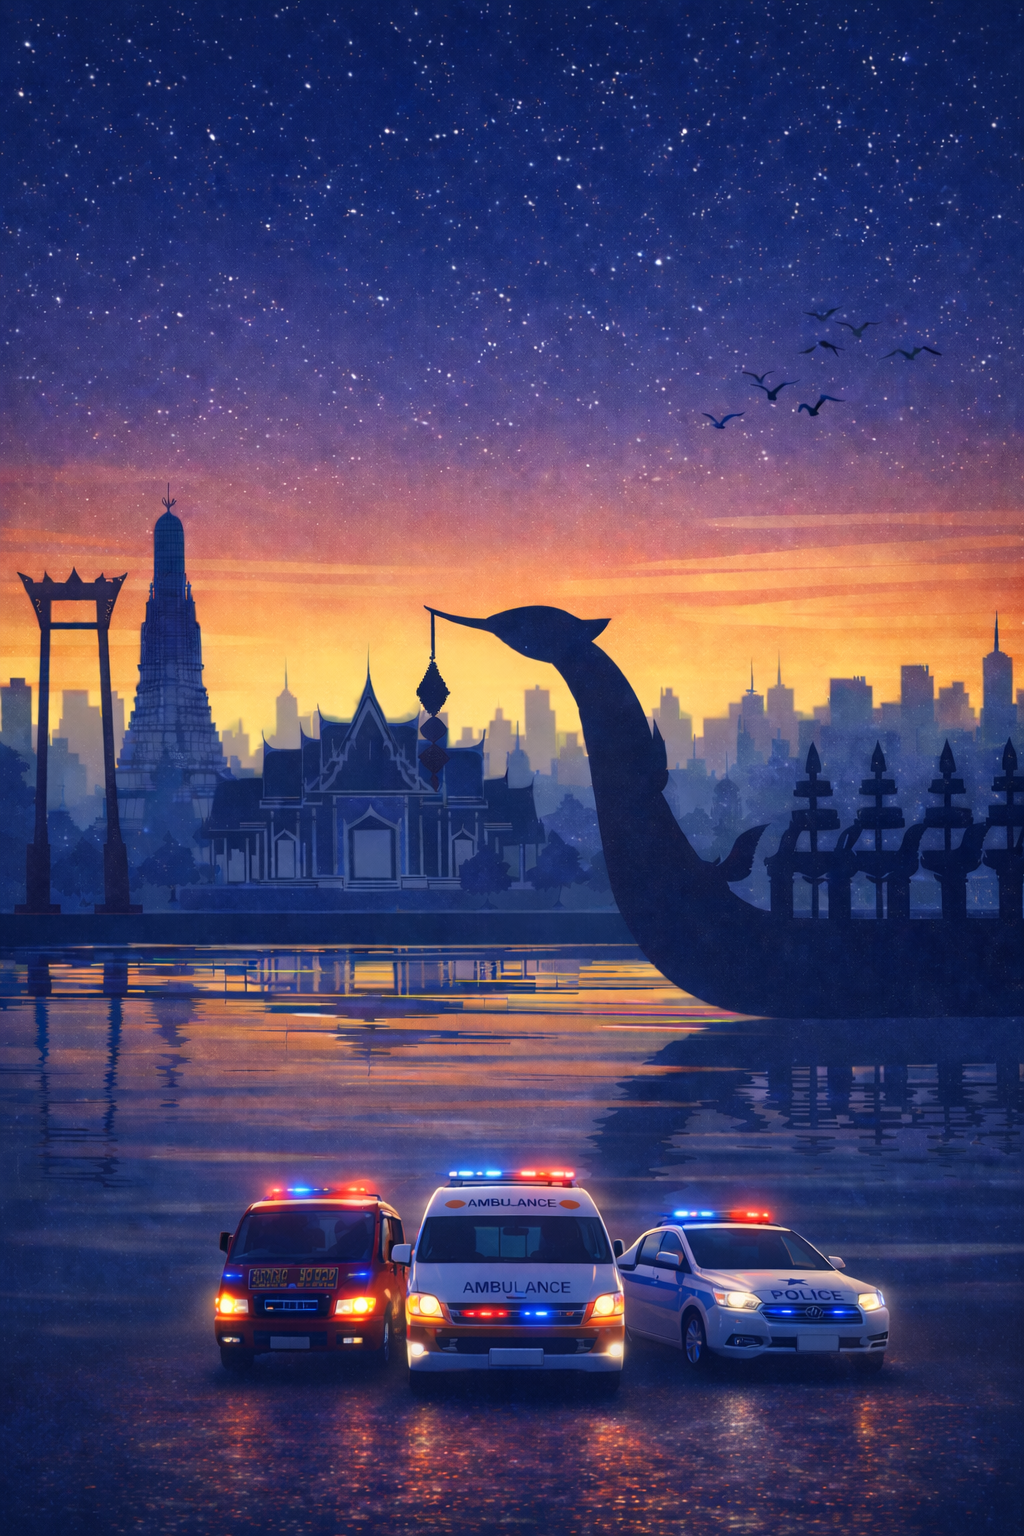
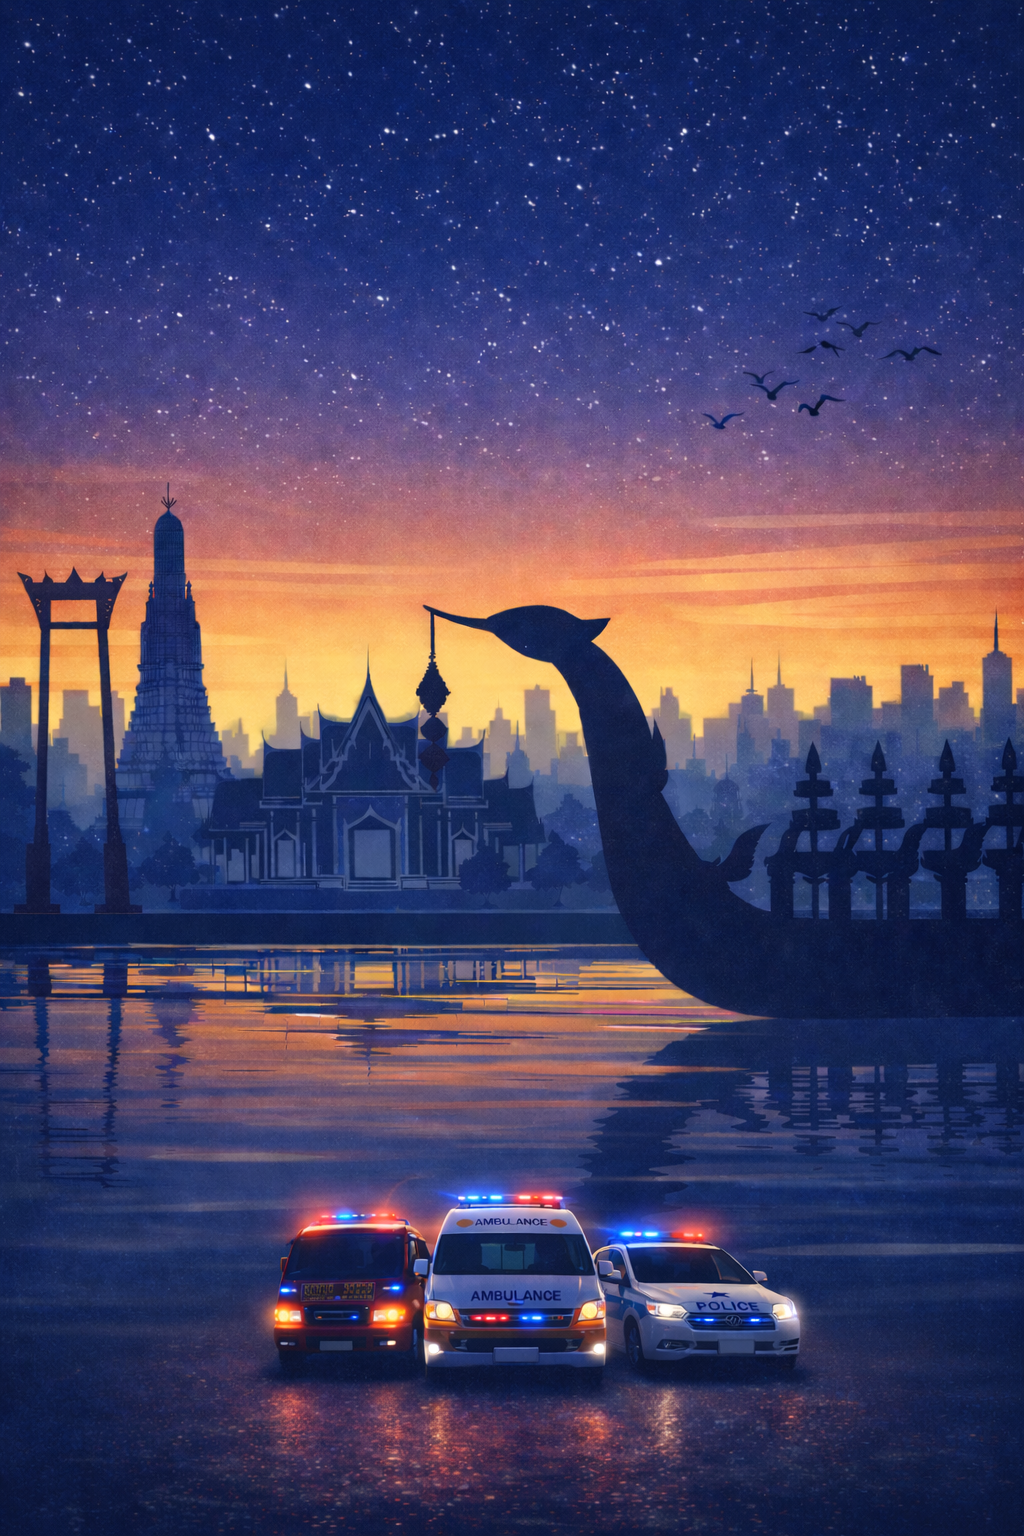
10/3/2569/1:18

diff --git a/lib/views/splash_screen_ui.dart b/lib/views/splash_screen_ui.dart
@@ -9,7 +9,6 @@ class SplashScreenUi extends StatefulWidget {
 }
 
 class _SplashScreenUiState extends State<SplashScreenUi> {
-
   @override
   void initState() {
     super.initState();
@@ -34,7 +33,7 @@ class _SplashScreenUiState extends State<SplashScreenUi> {
         width: double.infinity,
         decoration: const BoxDecoration(
           image: DecorationImage(
-            image: AssetImage("assets/images/im2.png"),
+            image: AssetImage("assets/images/im02.png"),
             fit: BoxFit.cover,
           ),
         ),
@@ -42,7 +41,6 @@ class _SplashScreenUiState extends State<SplashScreenUi> {
           child: Column(
             mainAxisAlignment: MainAxisAlignment.center,
             children: [
-
               /// โลโก้
               Container(
                 padding: const EdgeInsets.all(10),
@@ -120,14 +118,12 @@ class _SplashScreenUiState extends State<SplashScreenUi> {
                   ],
                 ),
               ),
-
-              const SizedBox(height: 60),
+              const SizedBox(height: 40),
 
               /// Loading
+              
               const CircularProgressIndicator(),
-
-              const SizedBox(height: 10),
-
+              const SizedBox(height: 40),
               const Text(
                 "Loading...",
                 style: TextStyle(

diff --git a/lib/views/sub_d_home_ui.dart b/lib/views/sub_d_home_ui.dart
@@ -10,7 +10,7 @@ class SubDHomeUi extends StatefulWidget {
 class _SubDHomeUiState extends State<SubDHomeUi> {
   @override
   Widget build(BuildContext context) {
-   return Scaffold(
+  return Scaffold(
       extendBodyBehindAppBar: true,
     
       body: Container(
@@ -18,7 +18,7 @@ class _SubDHomeUiState extends State<SubDHomeUi> {
         height: double.infinity,
         decoration: const BoxDecoration(
           image: DecorationImage(
-            image: AssetImage("assets/images/im2.png"),
+            image: AssetImage("assets/images/im4.png"),
             fit: BoxFit.cover,
           ),
         ),

diff --git a/lib/views/sub_c_home_ui.dart b/lib/views/sub_c_home_ui.dart
@@ -18,7 +18,7 @@ class _SubCHomeUiState extends State<SubCHomeUi> {
         height: double.infinity,
         decoration: const BoxDecoration(
           image: DecorationImage(
-            image: AssetImage("assets/images/im2.png"),
+            image: AssetImage("assets/images/im3.png"),
             fit: BoxFit.cover,
           ),
         ),

diff --git a/lib/views/sub_a_home_ui.dart b/lib/views/sub_a_home_ui.dart
@@ -33,7 +33,7 @@ class _SubAHomeUiState extends State<SubAHomeUi> {
 
         decoration: const BoxDecoration(
           image: DecorationImage(
-            image: AssetImage("assets/images/im2.png"),
+            image: AssetImage("assets/images/im5.png"),
             fit: BoxFit.cover,
           ),
         ),

diff --git a/lib/views/sub_b_home_ui.dart b/lib/views/sub_b_home_ui.dart
@@ -10,7 +10,7 @@ class SubBHomeUi extends StatefulWidget {
 class _SubBHomeUiState extends State<SubBHomeUi> {
   @override
   Widget build(BuildContext context) {
-   return Scaffold(
+  return Scaffold(
       extendBodyBehindAppBar: true,
     
       body: Container(
